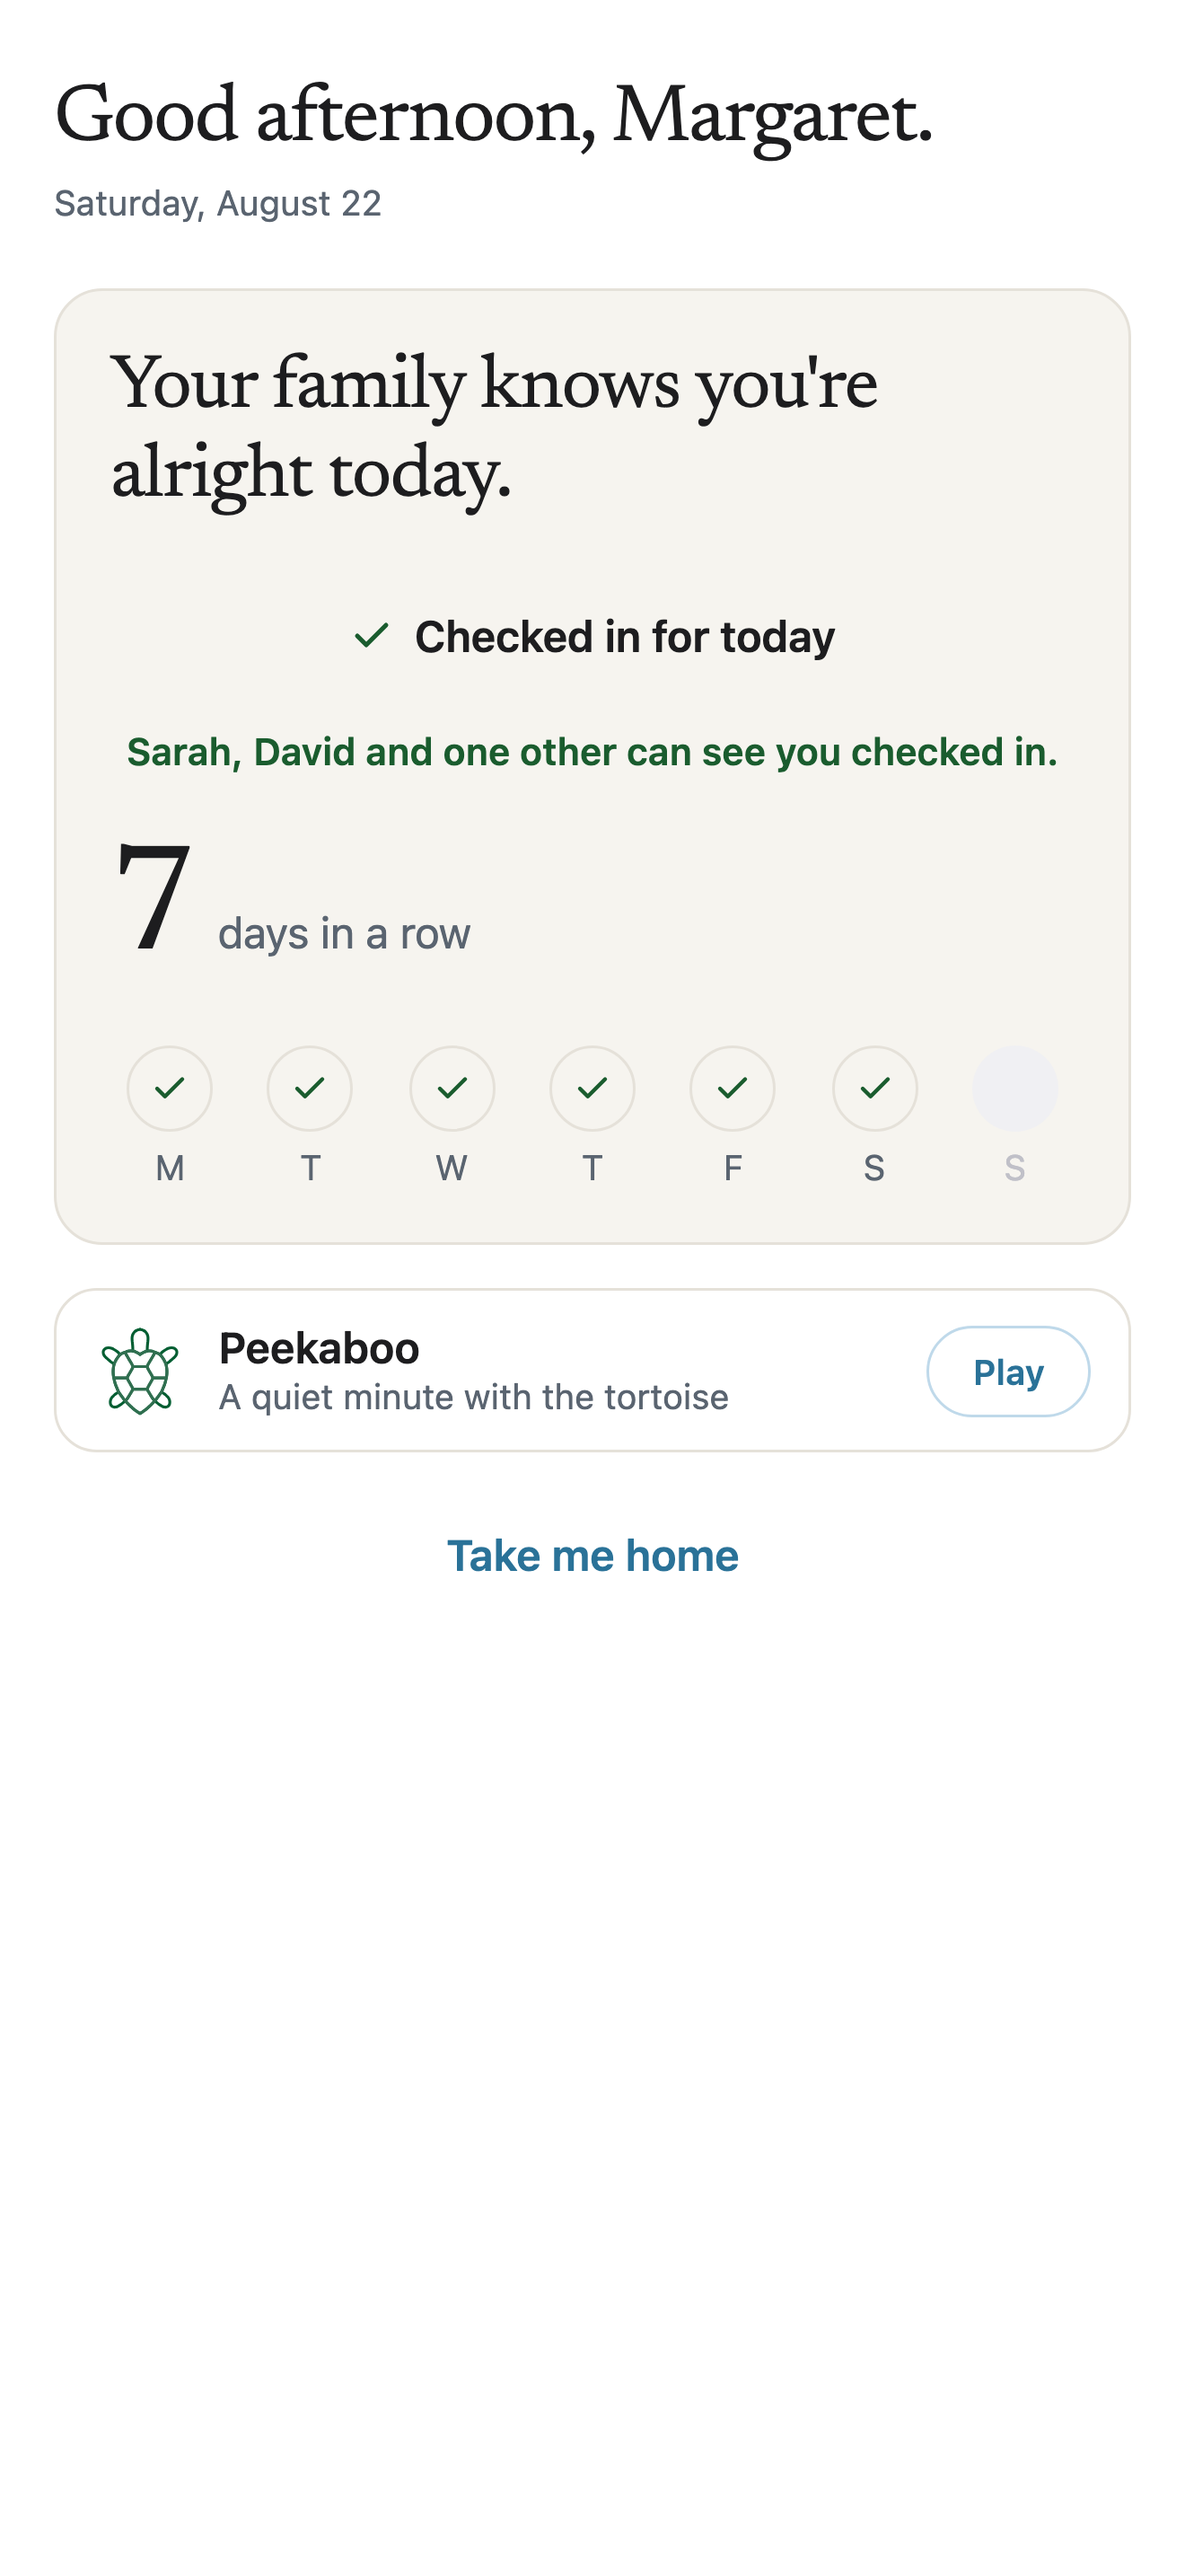
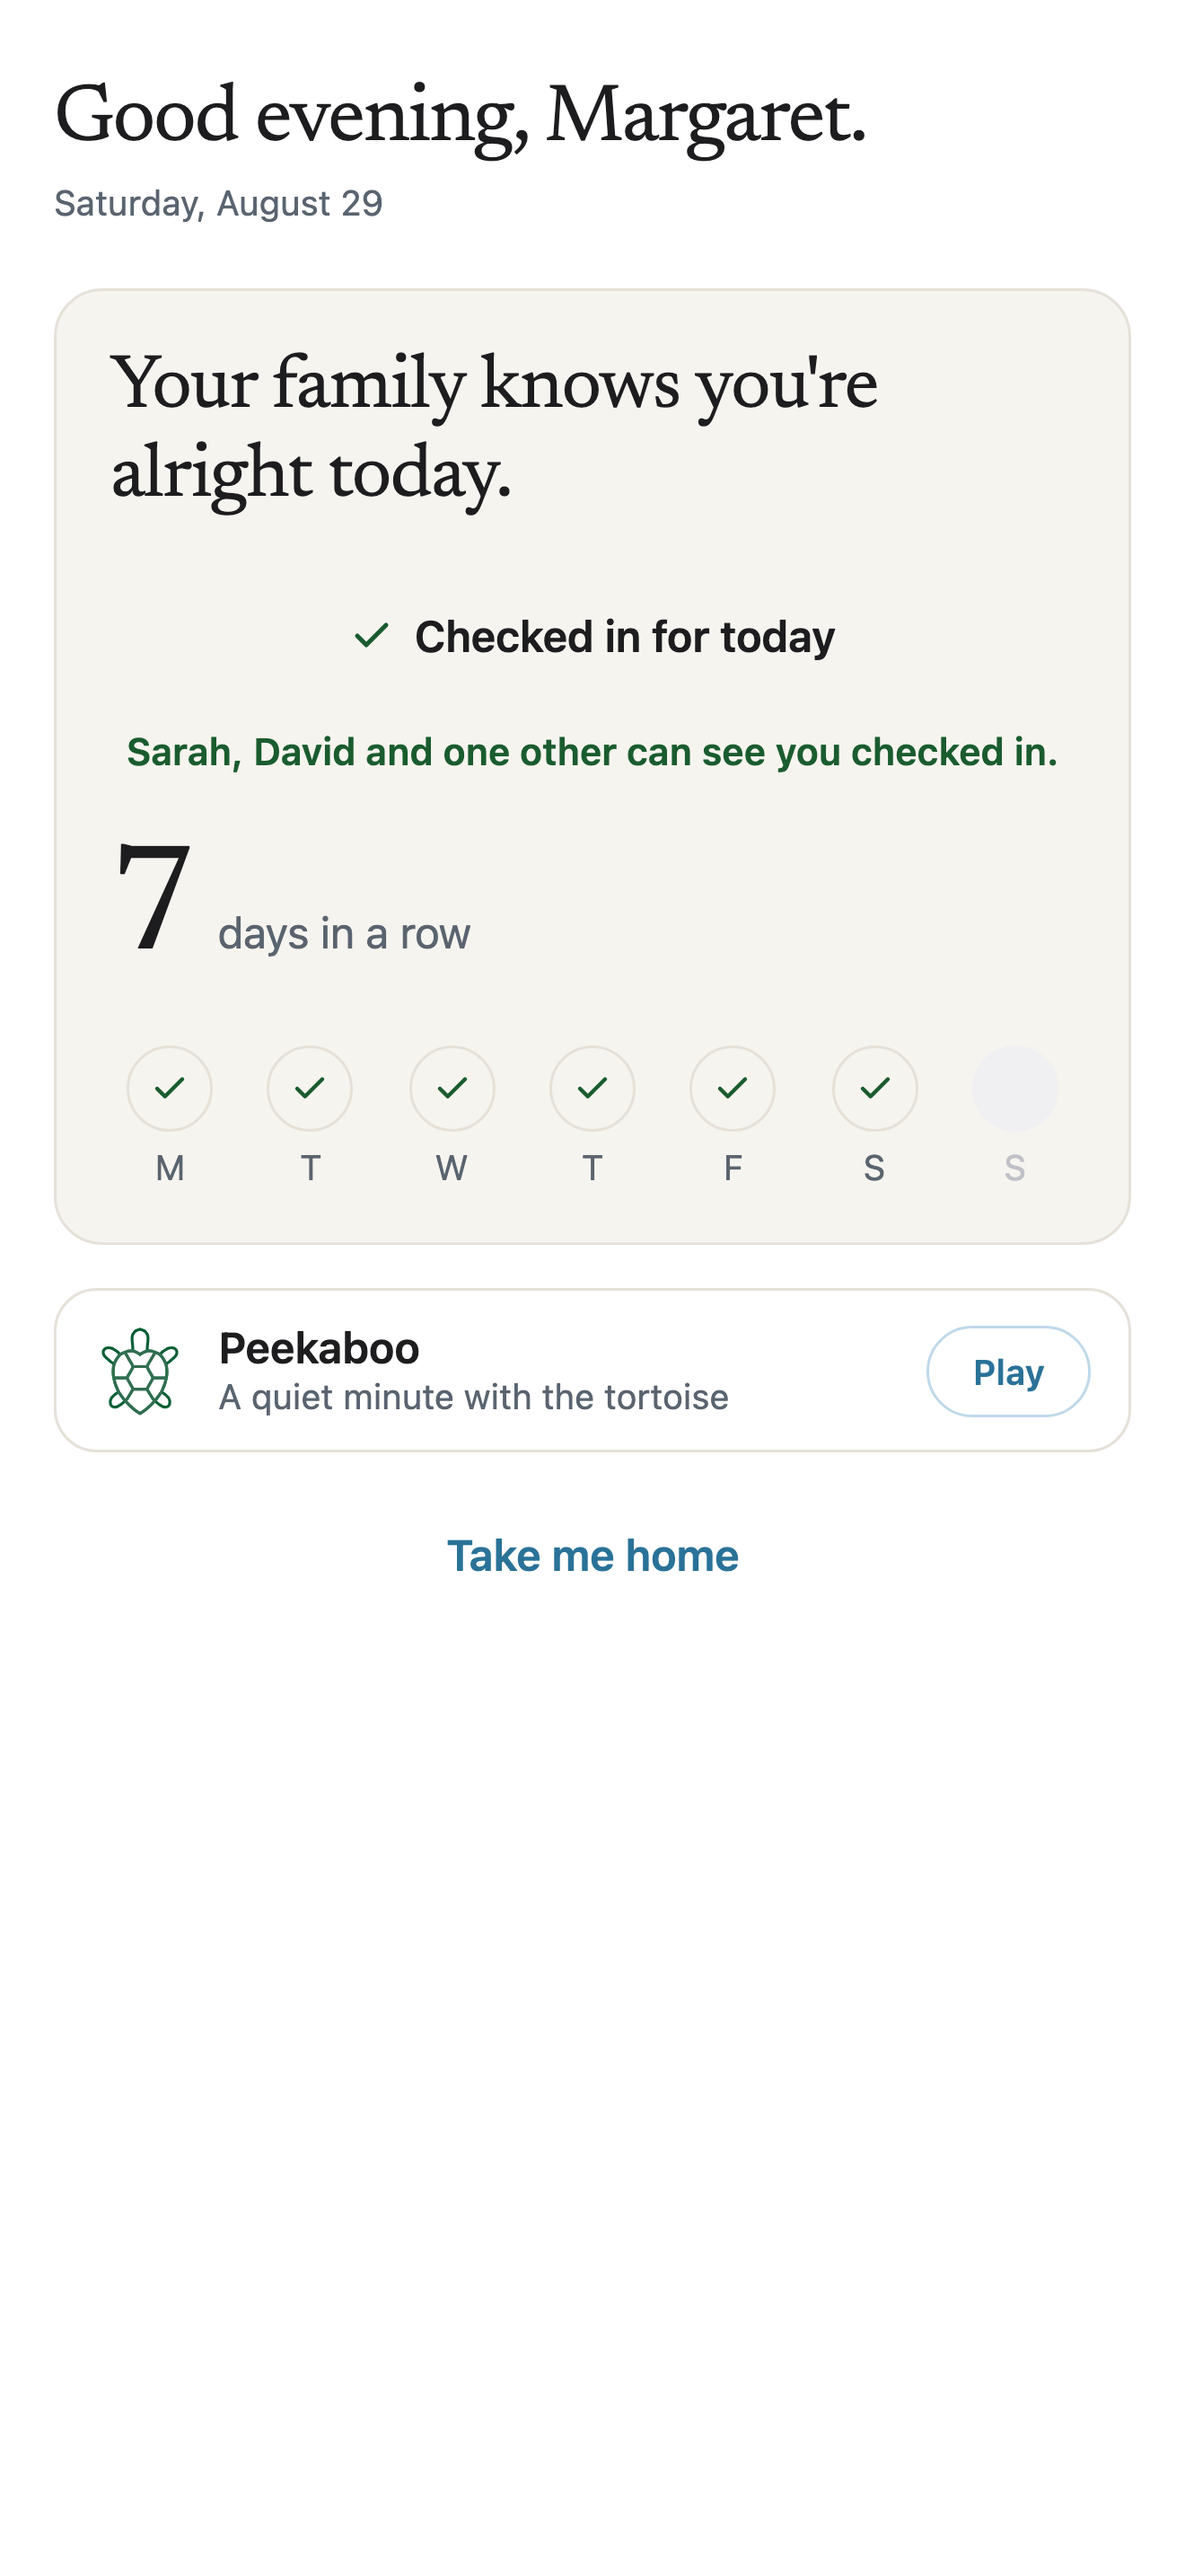
fix: [APS-02] - Re-capture the three elder-seat screenshots
The three shots the store set draws from the elder seat, re-taken against the
shipped build, and the capture bug they exposed.

Hiding the web-only Refresh control with visibility:hidden left its 44 CSS px
box in the layout. RefreshControl.jsx renders that button on web only and
native gets the pull gesture, which occupies nothing, so three of the routes
the store set draws from carried 44 px of empty white at the top that the app
never shows, and /posted-help carried it as a gap under its heading. Every
mechanical check passed on those frames.

The rule now lives in scripts/lib/hide-refresh.js, sets display:none, and stops
its climb at <body> so a screen whose only text is "Refresh" cannot make the
whole page the match. __tests__/hide-refresh.test.js pins both under jsdom.

The re-shot check-in frame and the 2026-08-22 one now put their first ink on
the same device row, 91, with the pixel difference bounded to the greeting and
the date.

Changed region(s): [[0.2174, 0.031, 0.7765, 0.0621]]

diff --git a/__tests__/hide-refresh.test.js b/__tests__/hide-refresh.test.js
@@ -1,0 +1,109 @@
+/**
+ * @jest-environment jsdom
+ */
+/**
+ * Guards the one rule that decides what a store screenshot has at the top of
+ * it: how the web-only Refresh control is taken off the page before the shot.
+ *
+ * The rule exists because of a real failure. On 2026-08-29 the control was
+ * hidden with `visibility: hidden`, which takes it out of sight and leaves its
+ * box in the layout. Every check of that capture passed: 1320 x 2868, no
+ * alpha, 157,799 bytes, and the frame carried 44 CSS px of empty white at the
+ * top that the shipped iOS app never draws, because RefreshControl.jsx renders
+ * that button on `Platform.OS === 'web'` only and native gets the pull gesture,
+ * which occupies nothing. A screenshot that does not match the app is the
+ * Guideline 2.3.3 problem this whole run exists to close.
+ *
+ * Measured on the live page, elder seat, 440 x 956 CSS:
+ *   /checkin  first ink at 72 CSS px hidden, 28 with the box gone
+ *   /messages first ink at 56 CSS px hidden, 12 with the box gone
+ *   /profile  first ink at 64 CSS px hidden, 20 with the box gone
+ * So the rule is: out of layout, not out of sight.
+ */
+const hideRefresh = require('../scripts/lib/hide-refresh');
+
+/** Builds the shape react-native-web renders: a button wrapping a label. */
+function refreshButton(label = 'Refresh') {
+  const button = document.createElement('div');
+  const text = document.createElement('div');
+  text.textContent = label;
+  button.appendChild(text);
+  return button;
+}
+
+beforeEach(() => {
+  document.body.innerHTML = '';
+});
+
+describe('hideRefresh', () => {
+  test('takes the control out of layout, not merely out of sight', () => {
+    const button = refreshButton();
+    document.body.appendChild(button);
+
+    hideRefresh(document);
+
+    // display:none collapses the box. visibility:hidden would leave 44 CSS px
+    // of white at the top of the frame, which is the bug this pins.
+    expect(button.style.display).toBe('none');
+    expect(button.style.visibility).not.toBe('hidden');
+  });
+
+  test('climbs to the outermost node whose whole text is Refresh', () => {
+    const outer = document.createElement('div');
+    const inner = refreshButton();
+    outer.appendChild(inner);
+    document.body.appendChild(outer);
+
+    hideRefresh(document);
+
+    // The box that holds the space is the outer one, so that is the box that
+    // has to go. Hiding only the label leaves the padding behind.
+    expect(outer.style.display).toBe('none');
+  });
+
+  test('leaves a screen that has no Refresh control untouched', () => {
+    const heading = document.createElement('h1');
+    heading.textContent = 'Posted Help';
+    document.body.appendChild(heading);
+
+    hideRefresh(document);
+
+    expect(heading.style.display).toBe('');
+  });
+
+  test('does not touch a word that merely contains Refresh', () => {
+    const row = document.createElement('div');
+    row.textContent = 'Refreshing…';
+    document.body.appendChild(row);
+
+    hideRefresh(document);
+
+    expect(row.style.display).toBe('');
+  });
+
+  test('hides every Refresh control on the page, not just the first', () => {
+    const first = refreshButton();
+    const second = refreshButton();
+    document.body.append(first, second);
+
+    hideRefresh(document);
+
+    expect(first.style.display).toBe('none');
+    expect(second.style.display).toBe('none');
+  });
+});
+
+describe('hideRefresh, the body guard', () => {
+  test('never hides the page itself when Refresh is the only text on it', () => {
+    // A screen still loading can have nothing else drawn yet. Without this
+    // guard the climb walks to <body>, the whole capture comes back blank,
+    // and every mechanical check still passes.
+    document.body.appendChild(refreshButton());
+
+    hideRefresh(document);
+
+    expect(document.body.style.display).toBe('');
+    expect(document.documentElement.style.display).toBe('');
+    expect(document.body.firstElementChild.style.display).toBe('none');
+  });
+});

diff --git a/__tests__/capture-store-shots.test.js b/__tests__/capture-store-shots.test.js
@@ -26,8 +26,18 @@ const SHOTS = path.join(ROOT, 'docs', 'store', 'screenshots');
 
 const EM_DASH = '—';
 
-/** A real phone-scale capture: 1320 x 2868, 157,173 bytes. */
-const PHONE_SCALE = path.join(SHOTS, 'raw-02-checkin.png');
+/**
+ * A real phone-scale capture: 1320 x 2868, 157,173 bytes.
+ *
+ * Deliberately the frozen copy in superseded/, not the live raw. The live file
+ * is re-shot whenever the UI moves, so a byte count pinned to it fails for the
+ * one reason that says nothing about the script. Everything under superseded/
+ * is the historical record and never changes, so the number can be typed in
+ * and mean something.
+ */
+const PHONE_SCALE = path.join(
+  SHOTS, 'superseded', '2026-08-29-pre-appstore-recapture', 'raw-02-checkin.png'
+);
 /** The smallest desktop-scale mistake on disk: same dimensions, 58,589 bytes. */
 const DESKTOP_SCALE_SMALLEST = path.join(SHOTS, 'superseded', 'raw-15-chat-thread-desktop-scale.png');
 /** The largest desktop-scale mistake on disk: same dimensions, 107,542 bytes. */
@@ -74,6 +84,15 @@ describe('capture-store-shots capture mode', () => {
     const { status, stderr } = run(['--route', '/', '--out', '/tmp/whatever.png', '--viewport', '1320x2868']);
     expect(status).toBe(2);
     expect(stderr).toContain('440');
+  });
+
+  test('accepts --dump-text and still names the flag it is actually missing', () => {
+    // The sweep for a phone number in a frame is evidence, so the flag that
+    // writes it must not be the thing that fails the run.
+    const { status, stderr } = run(['--out', '/tmp/whatever.png', '--dump-text', '/tmp/whatever.txt']);
+    expect(status).toBe(2);
+    expect(stderr).toContain('--route');
+    expect(stderr).not.toContain('--dump-text');
   });
 
   test('refuses a seat it does not know', () => {

diff --git a/scripts/lib/hide-refresh.js b/scripts/lib/hide-refresh.js
@@ -1,0 +1,37 @@
+// Takes the web-only "Refresh" control off the page before a store screenshot.
+//
+// Two rules, both learned from a capture that went wrong.
+//
+// OUT OF LAYOUT, NOT OUT OF SIGHT. `visibility: hidden` leaves the box behind.
+// The control is 44 CSS px tall and sits at the very top of /checkin,
+// /messages and /profile, so hiding it that way put 44 px of empty white at
+// the top of every one of those frames. The shipped iOS app never draws it:
+// src/components/ui/RefreshControl.jsx renders the button on
+// `Platform.OS === 'web'` only, and native gets the pull gesture, which
+// occupies nothing. `display: none` collapses the box and the frame matches
+// the app.
+//
+// NARROW, AND NEVER THE BODY. The element whose whole text is Refresh, then
+// only ancestors whose whole text is also Refresh, and the climb stops at
+// <body>. An earlier version walked three levels up regardless and hid the
+// scroll container, which produced three blank captures. A screen still
+// loading can have "Refresh" as the only text on it, and without the body
+// guard the whole page would be the thing that matched.
+module.exports = function hideRefresh(doc) {
+  const isJustRefresh = (el) => (el.textContent || '').trim() === 'Refresh';
+  for (const el of Array.from(doc.querySelectorAll('*'))) {
+    if (!isJustRefresh(el)) continue;
+    if (Array.from(el.children).some(isJustRefresh)) continue;
+    let node = el;
+    while (
+      node.parentElement
+      && node.parentElement !== doc.body
+      && node.parentElement !== doc.documentElement
+      && isJustRefresh(node.parentElement)
+    ) {
+      node = node.parentElement;
+    }
+    if (node === doc.body || node === doc.documentElement) continue;
+    node.style.display = 'none';
+  }
+};

diff --git a/docs/store/screenshot-inventory.md b/docs/store/screenshot-inventory.md
@@ -306,3 +306,74 @@ PUBLISHED.
 
 `Add parent` entered the codebase in `fd84826` on 2026-08-29, the commit before
 the tip, so the bundle serving these captures is the shipped UI.
+
+
+### The three elder-seat shots, re-captured 2026-08-29 (APS-02)
+
+Taken through `scripts/capture-store-shots.mjs` against
+`https://www.towinly.com/app`, elder seat, live backend. The old files are in
+`superseded/2026-08-29-pre-appstore-recapture/`. Nothing was deleted.
+
+| File | Frame | Alpha | Bytes | What the frame proves |
+|---|---|---|---|---|
+| `raw-07-posted-help.png` | 1320 x 2868 | no | 145,946 | Three real seeded requests as plain rows, one of them "Asked by Sarah, for you", the search field above them, the chips reading Waiting 3, In Progress 1, Completed 2. The floating tab-bar capsule is in frame with its blue count badges, and the heading carries no subtitle line. |
+| `raw-02-checkin.png` | 1320 x 2868 | no | 159,743 | The check-in screen with the day already done: "Checked in for today", "Sarah, David and one other can see you checked in", 7 days in a row and the week row. The first-time explainer is dismissed with a tap on "Got it" before the shot, which is what slot 1 (`raw-01`) exists to show instead. |
+| `raw-15-chat-thread.png` | 1320 x 2868 | no | 131,439 | A thread at `/chat/7cb397c3-1517-4d12-a637-8187bc158c9b`, printed by the script from the address bar after the steps ran, so it cannot be the conversation list by mistake. Three seeded messages with Ethan Cole, the composer at the foot. |
+
+**Reach the thread by tapping the row, never by its id.** The capture ran
+`--route /messages --wait "Ethan Cole" --tap "Ethan Cole"`. The demo data is
+reseeded, so the thread id moves: the same conversation was
+`4089dde0-6bdc-4d81-ad39-41bfdaea19c0` earlier the same afternoon and
+`7cb397c3-...` an hour later. A recipe that pins the id captures a 404 the
+first time the seeder runs.
+
+**The phone number sweep, run rather than asserted.** The script's
+`--dump-text` writes every string visible inside the frame, filtered to leaf
+elements inside `<body>` with a non-zero box intersecting the viewport, so it
+reports what a person can read and nothing else. Nine strings came back:
+
+```
+EC / Ethan Cole / Saturday it is. I'll bring my board, you bring your best opening. /
+3:33 PM / How lovely! Saturday at the community centre? It's nice and busy in the
+afternoons. / 3:24 PM . Sent / Today / Hello Margaret! Shall we plan that first game
+of chess? / 3:15 PM
+
+$ grep -nE '[0-9][0-9 ().+-]{6,}[0-9]|[0-9]{4,}' chat-frame.txt
+(no matches, exit 1)
+```
+
+The only digits in the frame are clock times of the form `3:15 PM`, which the
+pattern does not reach and no reader mistakes for a telephone number.
+
+### Hiding the Refresh control has to take its box with it
+
+The web build draws a "Refresh" button where the phone has the pull gesture:
+`src/components/ui/RefreshControl.jsx` renders it on `Platform.OS === 'web'`
+only. The capture script hides it before every shot. Until 2026-08-29 it hid it
+with `visibility: hidden`, which takes the control out of sight and leaves its
+44 CSS px box sitting in the layout.
+
+Measured on the live page, elder seat, 440 x 956 CSS, first ink from the top:
+
+| Route | Refresh box | `visibility: hidden` | `display: none` |
+|---|---|---|---|
+| `/checkin` | top 0, height 44 | 72 | 28 |
+| `/messages` | top 0, height 44 | 56 | 12 |
+| `/profile` | top 0, height 44 | 64 | 20 |
+| `/posted-help` | top 40, height 44 | 12 | 12 |
+
+So three of the routes the store set draws from carried 44 CSS px of empty
+white at the top that the shipped app never shows, and `/posted-help` carried
+the same 44 px as a gap between its heading and its search field. Every
+mechanical check passed on those frames: right size, no alpha, right weight.
+
+The rule now lives in `scripts/lib/hide-refresh.js` and sets `display: none`,
+which collapses the box. `__tests__/hide-refresh.test.js` pins it under jsdom,
+including the guard that stops the climb at `<body>`: a screen still loading
+can have "Refresh" as its only text, and without that guard the whole page is
+what matches and the capture comes back blank.
+
+Proof the band is gone: the re-shot `raw-02-checkin.png` and the 2026-08-22
+frame both put their first ink on device row 91, and the pixel difference
+between them is bounded to `(287, 91, 1038, 241)`, the greeting line and the
+date. The rest of the two frames is identical.

diff --git a/docs/store/screenshots/superseded/README.md b/docs/store/screenshots/superseded/README.md
@@ -45,3 +45,43 @@ three real demo seats.
 
 Nothing here is deleted. These files are the record of what the listing would
 have shown.
+
+
+---
+
+## 2026-08-22 elder-seat set, superseded on 2026-08-29 (APS-02)
+
+`2026-08-29-pre-appstore-recapture/` holds the three elder-seat raws the store
+manifest bakes from, as they stood before this date.
+
+| File | Bytes | Why it was replaced |
+|---|---|---|
+| `raw-07-posted-help.png` | 208,436 | Each request was a bordered card carrying a "Looking for Help" pill, a category and urgency line, and a Remove link. Requests are plain rows now. |
+| `raw-02-checkin.png` | 157,173 | Re-shot against the shipped build. Same screen, one week later on the greeting and the date. |
+| `raw-15-chat-thread.png` | 131,624 | Same thread, re-shot against the shipped build. |
+
+What moved under the Posted Help shot, all of it visible in the two frames side
+by side: cards became rows, a search field appeared above the chips, the
+subtitle line under the heading came out, the tab bar became the floating
+capsule, its count badges went from red to blue, and the centre button now
+reads "Ask Help" rather than "Need Help". A store screenshot that does not
+match the app is a Guideline 2.3.3 problem and it is the first thing a reviewer
+sees.
+
+The chips are the one thing that did **not** move. Both frames read Waiting 3,
+In Progress 1, Completed 2, one number each. The APS-02 brief expected a
+two-number Waiting chip in the old shot and there is none: that change had
+already shipped by 2026-08-22.
+
+The replacements came from `ralph/appstore-readiness` through
+`scripts/capture-store-shots.mjs`, which now owns the pinned recipe: viewport
+440 x 956 CSS, deviceScaleFactor 3, colourScheme light, the web Refresh control
+taken out of the layout, against the production backend and the real demo
+seats.
+
+The two landing raws, `raw-12` and `raw-13`, were re-shot in the same pass and
+came back byte-identical, so they are not here. Nothing was replaced, so
+nothing was superseded. See the 2026-08-29 section of
+`screenshot-inventory.md`.
+
+Nothing here is deleted.
